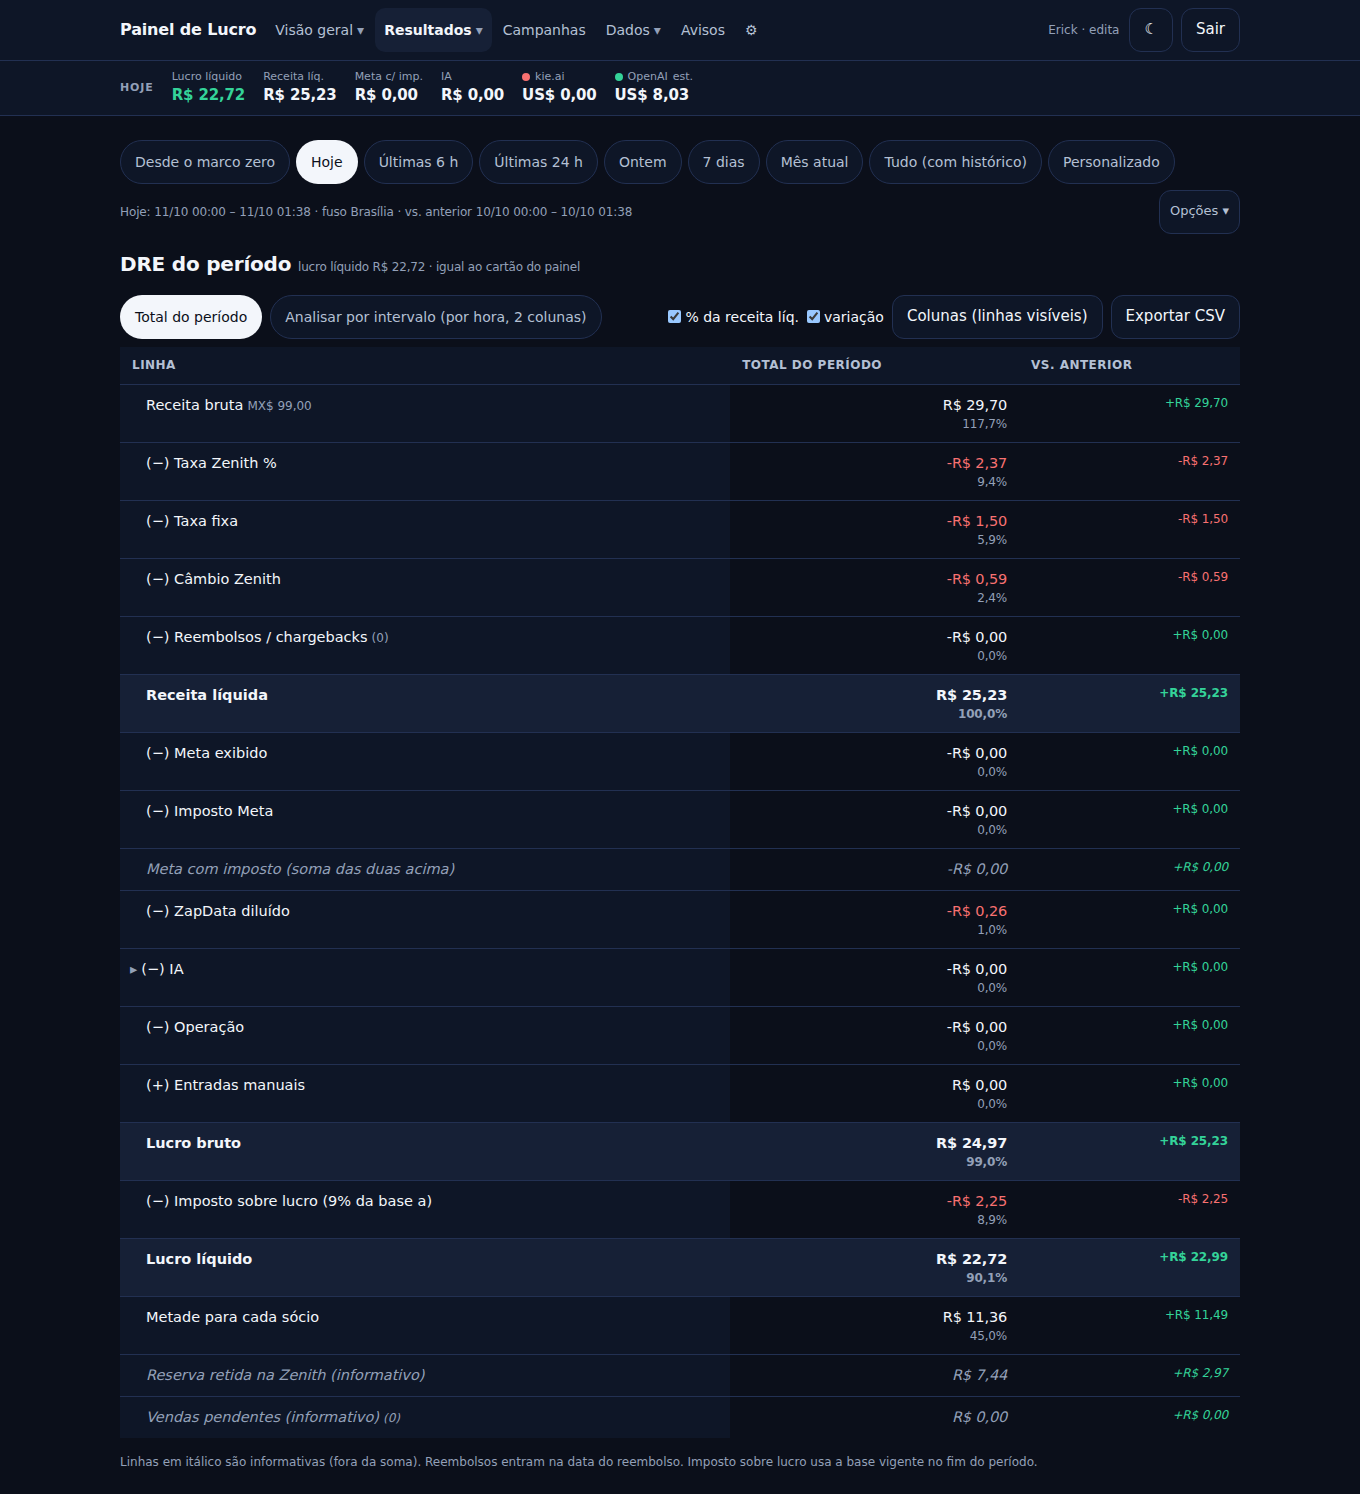
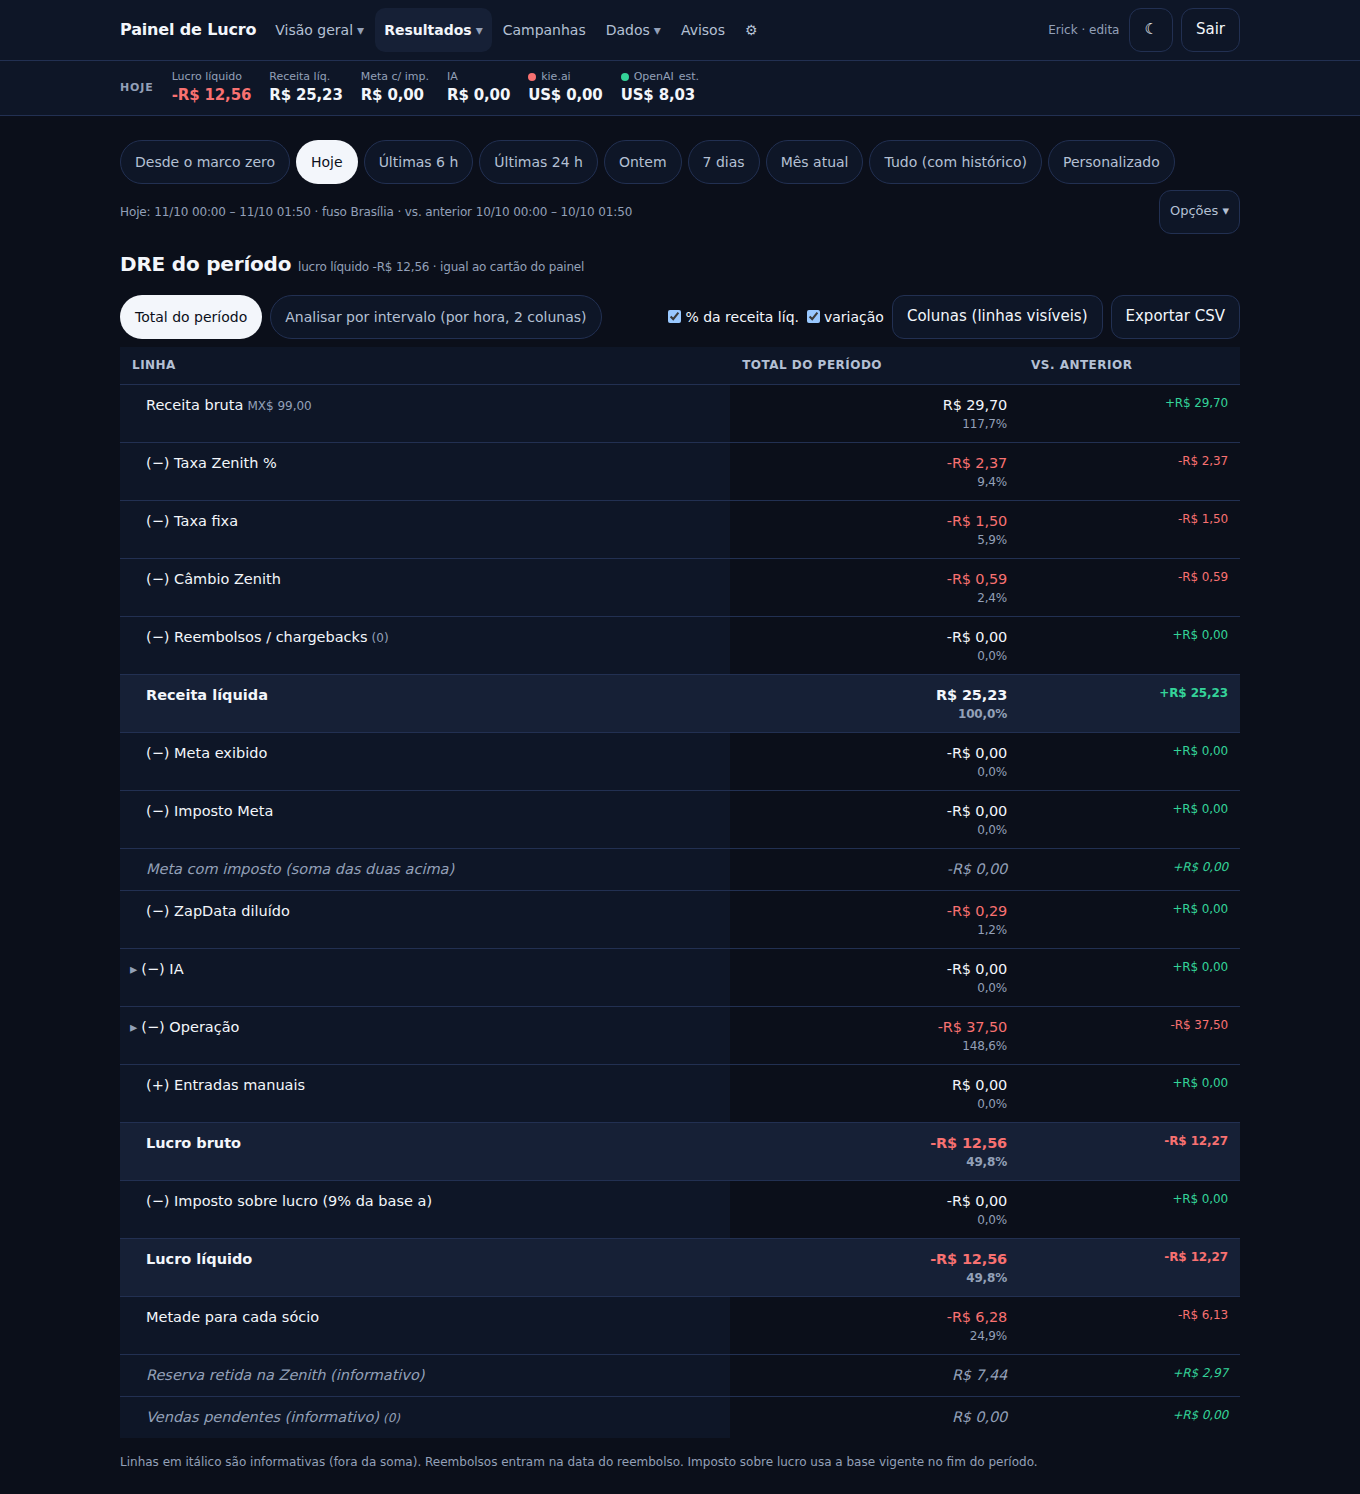
Inicial: gráfico de lucro ACUMULADO (por hora até 48 h, por dia acima) terminando no número grande, verde acima e vermelho abaixo do zero tracejado, valor do ponto ao tocar/passar o mouse, rótulos certos (24h em Ontem, datas em 7 dias); variações dos blocos com ▲/▼ e cor certa (custo subindo vermelh
Claude-Session: https://claude.ai/code/session_013YvvEsXnhEqyztXkJ9r3to

diff --git a/src/components/area-acumulado.tsx b/src/components/area-acumulado.tsx
@@ -1,0 +1,58 @@
+"use client";
+import { useState } from "react";
+
+export type PontoS = { rotulo: string; acumulado: number; valor: number };
+
+/**
+ * Lucro acumulado no período: linha que termina no número grande; zero tracejado; verde acima, vermelho abaixo.
+ * Tocar ou passar o mouse mostra o valor do ponto mais próximo. SVG puro, sem biblioteca.
+ */
+export function AreaAcumulado({ pontos, rotuloFim, gran, moeda = "BRL" }: { pontos: PontoS[]; rotuloFim: string; gran: "hora" | "dia"; moeda?: "BRL" | "MXN" }) {
+  const [sel, setSel] = useState<number | null>(null);
+  const W = 600, H = 130, padX = 6, padY = 10;
+  if (pontos.length < 2) return <div className="area-lucro text-xs text-ink-3">sem pontos suficientes para o gráfico</div>;
+  const vals = [0, ...pontos.map((p) => p.acumulado)];
+  const min = Math.min(...vals), max = Math.max(...vals), amp = max - min || 1;
+  const n = pontos.length;
+  const x = (i: number) => padX + ((i + 1) / n) * (W - 2 * padX); // o ponto i fecha o intervalo i; a origem (0) fica em x = padX
+  const y = (v: number) => padY + (1 - (v - min) / amp) * (H - 2 * padY);
+  const pts: [number, number][] = [[padX, y(0)], ...pontos.map((p, i) => [x(i), y(p.acumulado)] as [number, number])];
+  const linha = pts.map(([px, py], i) => `${i ? "L" : "M"}${px.toFixed(1)},${py.toFixed(1)}`).join(" ");
+  const zero = y(0);
+  const area = `${linha} L${pts[pts.length - 1][0].toFixed(1)},${zero.toFixed(1)} L${padX},${zero.toFixed(1)} Z`;
+  const fmt = (v: number) => new Intl.NumberFormat("pt-BR", { style: "currency", currency: moeda, maximumFractionDigits: 2 }).format(v);
+  const escolher = (e: React.PointerEvent<SVGSVGElement>) => {
+    const r = e.currentTarget.getBoundingClientRect();
+    const px = ((e.clientX - r.left) / r.width) * W;
+    let melhor = 0; for (let i = 1; i < pts.length; i++) if (Math.abs(pts[i][0] - px) < Math.abs(pts[melhor][0] - px)) melhor = i;
+    setSel(melhor);
+  };
+  const p = sel != null ? pts[sel] : null;
+  const ponto = sel != null && sel > 0 ? pontos[sel - 1] : null;
+  const meio = pontos[Math.floor((n - 1) / 2)];
+  return (
+    <figure className="area-lucro">
+      <svg viewBox={`0 0 ${W} ${H}`} preserveAspectRatio="none" role="img" aria-label="Lucro líquido acumulado" onPointerMove={escolher} onPointerDown={escolher} onPointerLeave={() => setSel(null)}>
+        <defs>
+          <clipPath id="acima"><rect x="0" y="0" width={W} height={zero} /></clipPath>
+          <clipPath id="abaixo"><rect x="0" y={zero} width={W} height={H - zero} /></clipPath>
+          <linearGradient id="gp" x1="0" x2="0" y1="0" y2="1"><stop offset="0%" stopColor="var(--pos)" stopOpacity=".28" /><stop offset="100%" stopColor="var(--pos)" stopOpacity=".02" /></linearGradient>
+          <linearGradient id="gn" x1="0" x2="0" y1="0" y2="1"><stop offset="0%" stopColor="var(--neg)" stopOpacity=".02" /><stop offset="100%" stopColor="var(--neg)" stopOpacity=".28" /></linearGradient>
+        </defs>
+        <line x1={padX} x2={W - padX} y1={zero} y2={zero} stroke="var(--text-3)" strokeDasharray="3 4" strokeWidth="1" vectorEffect="non-scaling-stroke" />
+        <path d={area} fill="url(#gp)" clipPath="url(#acima)" />
+        <path d={area} fill="url(#gn)" clipPath="url(#abaixo)" />
+        <path d={linha} fill="none" stroke="var(--pos)" strokeWidth="2.2" strokeLinejoin="round" strokeLinecap="round" vectorEffect="non-scaling-stroke" clipPath="url(#acima)" />
+        <path d={linha} fill="none" stroke="var(--neg)" strokeWidth="2.2" strokeLinejoin="round" strokeLinecap="round" vectorEffect="non-scaling-stroke" clipPath="url(#abaixo)" />
+        {p && <line x1={p[0]} x2={p[0]} y1={padY} y2={H - padY} stroke="var(--text-3)" strokeWidth="1" vectorEffect="non-scaling-stroke" />}
+        <circle cx={pts[pts.length - 1][0]} cy={pts[pts.length - 1][1]} r="3.5" fill={pontos[n - 1].acumulado >= 0 ? "var(--pos)" : "var(--neg)"} vectorEffect="non-scaling-stroke" />
+        {p && <circle cx={p[0]} cy={p[1]} r="4" fill="var(--surface)" stroke={(sel && sel > 0 ? pontos[sel - 1].acumulado : 0) >= 0 ? "var(--pos)" : "var(--neg)"} strokeWidth="2" vectorEffect="non-scaling-stroke" />}
+      </svg>
+      <figcaption className="flex justify-between text-xs text-ink-3 num">
+        <span>{gran === "hora" ? "00h" : pontos[0].rotulo}</span>
+        <span className="text-ink-2">{ponto ? <>{gran === "hora" ? `até ${ponto.rotulo.replace("h", "")}:59` : ponto.rotulo} · acumulado <b className={ponto.acumulado >= 0 ? "pos" : "neg"}>{fmt(ponto.acumulado)}</b> · no ponto {fmt(ponto.valor)}</> : sel === 0 ? "início · R$ 0,00" : `lucro acumulado por ${gran}${gran === "dia" ? ` · ${meio.rotulo}` : ""}`}</span>
+        <span>{rotuloFim}</span>
+      </figcaption>
+    </figure>
+  );
+}

diff --git a/src/app/(app)/(inicio)/page.tsx b/src/app/(app)/(inicio)/page.tsx
@@ -1,7 +1,7 @@
 import { Suspense } from "react";
 import { formatInTimeZone } from "date-fns-tz";
 import { contextoPeriodo } from "@/lib/contexto";
-import { lucroPorHora, alertaSaldo, resolverAtalho } from "@/lib/calculo";
+import { lucroAcumulado, alertaSaldo, resolverAtalho } from "@/lib/calculo";
 import { carregarCreditos } from "@/coletores/creditos";
 import { avisosAbertos } from "@/lib/dados";
 import { fontesAtrasadas } from "@/lib/hoje";
@@ -10,7 +10,7 @@ import { fmtMoeda, fmtUSD, fmtHorasRestantes } from "@/lib/formato";
 import { SeletorCompacto } from "@/components/seletor-compacto";
 import { NumeroAnimado } from "@/components/numero-animado";
 import { StatusLinha } from "@/components/status-linha";
-import { AreaLucro } from "@/components/area-lucro";
+import { AreaAcumulado } from "@/components/area-acumulado";
 import { Vivo } from "@/components/vivo";
 import { Entretem } from "@/components/entretem";
 import { FaixaAtraso } from "@/components/faixa-atraso";
@@ -35,22 +35,25 @@ export default async function Inicio({ searchParams }: { searchParams: Promise<P
   const periodoTocaHoje = estado.periodo.fim.getTime() > estado.agora.getTime() - 60 * 60_000;
   const incompleto = periodoTocaHoje && atrasos.some((x) => x.fonte === "meta" || x.fonte === "zenith");
   const varLucro = textoVariacao(t.lucroLiquido, a.lucroLiquido, temBaseAnterior, "moeda", estado.moeda, taxaMxn);
-  const lph = lucroPorHora(ctx.entrada, estado.periodo, estado.tz);
+  const acum = lucroAcumulado(ctx.entrada, estado.periodo, estado.tz);
+  // rótulo do fim: "24h" quando o período fecha à meia-noite (Ontem), senão a hora/dia do fim
+  const fimH = formatInTimeZone(estado.periodo.fim, estado.tz, "HH:mm");
+  const rotuloFim = acum.gran === "hora" ? (fimH === "00:00" ? "24h" : formatInTimeZone(estado.periodo.fim, estado.tz, "HH'h'")) : formatInTimeZone(new Date(estado.periodo.fim.getTime() - 1), estado.tz, "dd/MM");
   const hoje = estado.atalho === "hoje" ? atual : ctx.calc(resolverAtalho("hoje", estado.agora, estado.marcoZero, estado.tz).periodo); // estado de hoje para o "vivo"
-  const serie = "indisponivel" in lph ? [] : lph.pontos.map((p) => p.lucro);
   const ultimaOk = ["meta", "cambio", "openai", "kie"].map((f) => coletas.get(f)?.ultimaOk?.getTime() ?? 0).reduce((m, x) => Math.max(m, x), 0);
   const cambio = coletas.get("cambio");
   const agendadorOk = !!cambio && estado.agora.getTime() - cambio.ultima.getTime() <= 15 * 60_000;
   const chipsSaldo = creditos ? [creditos.kie, creditos.openai].flatMap((s) => { const m = alertaSaldo(s, creditos.limites); return m ? [{ nome: s.fonte === "kie" ? "kie.ai" : "OpenAI", texto: `${fmtUSD(s.saldoUsd)}${s.horasRestantes != null ? ` · ${fmtHorasRestantes(s.horasRestantes)}` : ""}`, motivo: m }] : []; }) : [];
-  const hora = (d: Date) => formatInTimeZone(d, estado.tz, "HH'h'");
   const bloco = (chave: string, rotulo: string, valor: number, ant: number, inverter = false, inteiro = false) => {
     const v = textoVariacao(valor, ant, temBaseAnterior, inteiro ? "int" : "moeda", estado.moeda, taxaMxn);
     const bom = v.bom == null ? null : inverter ? !v.bom : v.bom;
+    const corpo = v.texto.replace(/^[+-]/, "").replace(" vs. anterior", "");
+    const setaTexto = !v.texto ? "" : v.bom == null ? `= ${corpo}` : `${v.texto.startsWith("+") ? "▲" : "▼"} ${corpo}`;
     return (
       <div className="bloco" key={chave}>
         <div className="bloco-k">{rotulo}</div>
         <div className="bloco-v"><NumeroAnimado chave={chave} valor={inteiro ? valor : emMoeda(valor)} texto={inteiro ? String(valor) : money(valor)} casas={inteiro ? 0 : 2} prefixo={inteiro ? "" : prefixo} /></div>
-        <div className={`bloco-s num ${bom == null ? "" : bom ? "pos" : "neg"}`}>{v.texto}</div>
+        <div className={`bloco-s num ${bom == null ? "" : bom ? "pos" : "neg"}`} title={v.texto}>{setaTexto}</div>
       </div>
     );
   };
@@ -85,7 +88,7 @@ export default async function Inicio({ searchParams }: { searchParams: Promise<P
           {bloco("vendas", "Nº de vendas", t.numVendas, a.numVendas, false, true)}
         </section>
 
-        {"indisponivel" in lph ? <p className="text-xs text-ink-3">{lph.indisponivel}.</p> : <AreaLucro pontos={serie} rotuloInicio={hora(estado.periodo.inicio)} rotuloFim={hora(estado.periodo.fim)} positivo={t.lucroLiquido >= 0} />}
+        <AreaAcumulado pontos={acum.pontos.map((p) => ({ rotulo: p.rotulo, acumulado: emMoeda(p.acumulado), valor: emMoeda(p.valor) }))} rotuloFim={rotuloFim} gran={acum.gran} moeda={estado.moeda} />
 
         {chipsSaldo.length > 0 && (
           <div className="chips-saldo">

diff --git a/src/app/(app)/(inicio)/error.tsx b/src/app/(app)/(inicio)/error.tsx
@@ -1,0 +1,28 @@
+"use client";
+import { useEffect, useState } from "react";
+import { CarregandoInicial } from "@/components/carregando-inicial";
+
+const g = globalThis as unknown as { __tentativasInicial?: Map<string, number> };
+const tentativas = () => (g.__tentativasInicial ??= new Map<string, number>());
+
+/** Falhou ao carregar a inicial: tenta de novo sozinho 1 vez (mantendo o carregamento na tela); só mostra o erro se falhar de novo. */
+export default function ErroInicial({ error, reset }: { error: Error & { digest?: string }; reset: () => void }) {
+  const chave = `${typeof location !== "undefined" ? location.search : ""}`;
+  const [repetindo, setRepetindo] = useState(() => (tentativas().get(chave) ?? 0) < 1);
+  useEffect(() => {
+    const n = tentativas().get(chave) ?? 0;
+    if (n >= 1) { setRepetindo(false); return; }
+    tentativas().set(chave, n + 1);
+    const t = setTimeout(() => reset(), 400);
+    const limpa = setTimeout(() => tentativas().delete(chave), 60_000); // depois de 1 min, uma nova falha ganha nova tentativa automática
+    return () => { clearTimeout(t); clearTimeout(limpa); };
+  }, [chave, reset]);
+  if (repetindo) return <CarregandoInicial />;
+  return (
+    <div className="card p-4 flex flex-col gap-2">
+      <h1 className="font-semibold">Dado indisponível</h1>
+      <p className="text-sm text-ink-2">A página não conseguiu carregar os dados, mesmo na segunda tentativa{error.digest ? ` (código ${error.digest})` : ""}. Normalmente é o banco demorando a responder.</p>
+      <div><button className="btn btn-primary" onClick={() => { tentativas().delete(chave); reset(); }}>Tentar de novo</button></div>
+    </div>
+  );
+}

diff --git a/src/app/globals.css b/src/app/globals.css
@@ -131,9 +131,10 @@ body[data-carregando] main > *:not(.inicial), body[data-carregando] .inicial > :
 .bloco { background: var(--surface); border: 1px solid var(--border); border-radius: 14px; padding: 12px 14px; min-width: 0; }
 .bloco-k { font-size: 12px; color: var(--text-2); font-weight: 500; white-space: nowrap; overflow: hidden; text-overflow: ellipsis; }
 .bloco-v { font-size: clamp(1.25rem, 3.2vw, 1.5rem); font-weight: 600; letter-spacing: -0.02em; margin-top: 4px; white-space: nowrap; font-variant-numeric: tabular-nums; }
-.bloco-s { font-size: 11px; color: var(--text-3); margin-top: 4px; white-space: nowrap; overflow: hidden; text-overflow: ellipsis; }
+.bloco-s { font-size: 12px; color: var(--text-3); margin-top: 4px; white-space: nowrap; overflow: hidden; text-overflow: ellipsis; font-weight: 500; }
+.bloco-s.pos { color: var(--pos); } .bloco-s.neg { color: var(--neg); }
 .area-lucro { margin: 0; }
-.area-lucro svg { width: 100%; height: 120px; display: block; }
+.area-lucro svg { width: 100%; height: 130px; display: block; touch-action: pan-y; cursor: crosshair; }
 .chips-saldo { display: flex; flex-wrap: wrap; gap: 8px; }
 .chip-saldo { display: inline-flex; align-items: center; gap: 6px; padding: 6px 12px; border-radius: 999px; font-size: 13px; font-weight: 600; background: color-mix(in srgb, var(--neg) 12%, transparent); color: var(--neg); border: 1px solid color-mix(in srgb, var(--neg) 35%, transparent); }
 .ver-detalhes { align-self: flex-start; font-size: 14px; font-weight: 500; color: var(--accent); padding: 8px 0; }

diff --git a/src/lib/calculo/hora.ts b/src/lib/calculo/hora.ts
@@ -39,3 +39,24 @@ export function lucroPorHora(entrada: Entrada, periodo: Periodo, tz: string): { 
     .sort((a, b) => a.instante.getTime() - b.instante.getTime());
   return { pontos, vendas };
 }
+
+export type PontoAcumulado = { inicio: Date; rotulo: string; valor: number; acumulado: number };
+
+/**
+ * Lucro líquido ACUMULADO no período, por hora (períodos de até 48 h) ou por dia (acima disso).
+ * Mesmo rateio do imposto de `lucroPorHora`: o último ponto é exatamente o lucro líquido do período.
+ */
+export function lucroAcumulado(entrada: Entrada, periodo: Periodo, tz: string): { gran: "hora" | "dia"; pontos: PontoAcumulado[] } {
+  const horas = (periodo.fim.getTime() - periodo.inicio.getTime()) / 3_600_000;
+  const gran: "hora" | "dia" = horas <= 48 ? "hora" : "dia";
+  const total = calcularDRE({ ...entrada, periodo });
+  const fator = total.totais.lucroBruto > 0 ? total.totais.lucroLiquido / total.totais.lucroBruto : 1;
+  let acumulado = 0;
+  const pontos = fatiar(periodo, gran, tz).map((fatia) => {
+    const dre = calcularDRE({ ...entrada, periodo: fatia });
+    const valor = dre.totais.lucroBruto * fator;
+    acumulado += valor;
+    return { inicio: fatia.inicio, rotulo: formatInTimeZone(fatia.inicio, tz, gran === "hora" ? "HH'h'" : "dd/MM"), valor, acumulado };
+  });
+  return { gran, pontos };
+}

diff --git a/tests/ia-hora.test.ts b/tests/ia-hora.test.ts
@@ -69,3 +69,17 @@ describe("lucro por hora com vendas marcadas", () => {
     expect(rotuloMetodo("spei")).toBe("SPEI"); expect(rotuloMetodo("bank_transfer")).toBe("SPEI"); expect(rotuloMetodo("OXXO")).toBe("OXXO"); expect(rotuloMetodo(null)).toBe("—");
   });
 });
+
+describe("lucro acumulado para o gráfico da inicial", () => {
+  it("por hora até 48 h, por dia acima; último ponto = lucro líquido do período", async () => {
+    const { lucroAcumulado } = await import("../src/lib/calculo");
+    const e = base([vendaZenith({ brutoMxn: 149, aprovadaEm: brt("2026-10-05T01:20") })], [metaLanc({ instante: brt("2026-10-05T00:00"), valor: 10 })]);
+    const h = lucroAcumulado(e, e.periodo, TZ);
+    expect(h.gran).toBe("hora"); expect(h.pontos).toHaveLength(6); expect(h.pontos[0].rotulo).toBe("00h");
+    expect(h.pontos[5].acumulado).toBeCloseTo(calcularDRE(e).totais.lucroLiquido, 6);
+    const semana = { inicio: brt("2026-10-04T00:00"), fim: brt("2026-10-11T00:00") };
+    const d = lucroAcumulado(e, semana, TZ);
+    expect(d.gran).toBe("dia"); expect(d.pontos.map((p) => p.rotulo)).toEqual(["04/10", "05/10", "06/10", "07/10", "08/10", "09/10", "10/10"]);
+    expect(d.pontos[6].acumulado).toBeCloseTo(calcularDRE({ ...e, periodo: semana }).totais.lucroLiquido, 6);
+  });
+});
